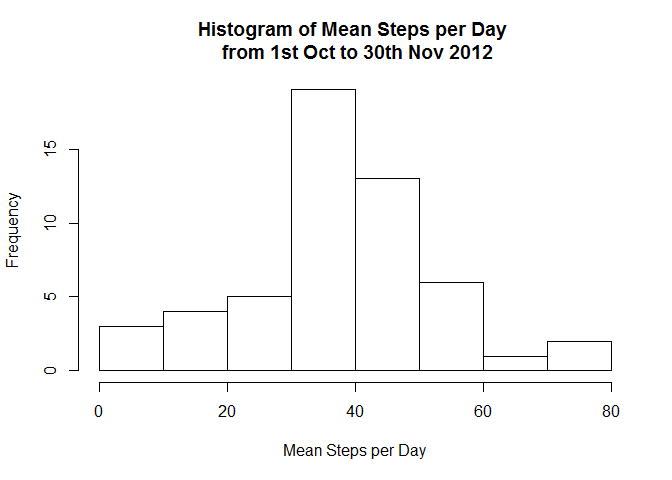
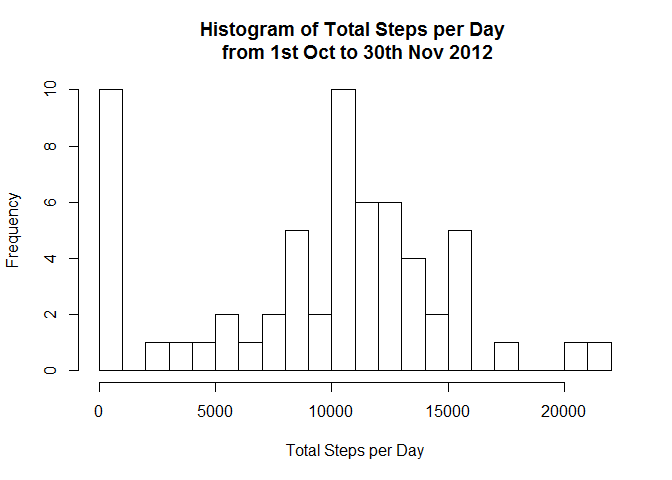
Modified code

diff --git a/PA1_template.html b/PA1_template.html
@@ -146,16 +146,16 @@ head(actdata)</code></pre>
 <h2>What is mean total number of steps taken per day?</h2>
 <p>We first calculate the average number of steps taken aggregated within each individual day.</p>
 <p>Here we show the histogram of the average number obtained.</p>
-<pre class="r"><code>meandata&lt;-aggregate(actdata$steps,list(actdata$date),mean,na.rm=TRUE)
-names(meandata)&lt;-c('Date','Mean_Steps_per_Day')
-hist(meandata$Mean_Steps_per_Day,xlab='Mean Steps per Day',main='Histogram of Mean Steps per Day \n from 1st Oct to 30th Nov 2012')</code></pre>
[1 lines of base64/hex data omitted]
+<pre class="r"><code>totaldata&lt;-aggregate(actdata$steps,list(actdata$date),sum,na.rm=TRUE)
+names(totaldata)&lt;-c('Date','Total_Steps_per_Day')
+hist(totaldata$Total_Steps_per_Day,breaks=20,xlab='Total Steps per Day',main='Histogram of Total Steps per Day \n from 1st Oct to 30th Nov 2012')</code></pre>
[1 lines of base64/hex data omitted]
 <p>The mean number of total steps per day can be calculated as follows:</p>
-<pre class="r"><code>mean(meandata$Mean_Steps_per_Day,na.rm=TRUE)</code></pre>
-<pre><code>## [1] 37.3826</code></pre>
+<pre class="r"><code>mean(totaldata$Total_Steps_per_Day,na.rm=TRUE)</code></pre>
+<pre><code>## [1] 9354.23</code></pre>
 <p>While the median number is as follows:</p>
-<pre class="r"><code>median(meandata$Mean_Steps_per_Day,na.rm=TRUE)</code></pre>
-<pre><code>## [1] 37.37847</code></pre>
+<pre class="r"><code>median(totaldata$Total_Steps_per_Day,na.rm=TRUE)</code></pre>
+<pre><code>## [1] 10395</code></pre>
 </div>
 <div id="what-is-the-average-daily-activity-pattern" class="section level2">
 <h2>What is the average daily activity pattern?</h2>
@@ -182,16 +182,17 @@ newdata&lt;-actdata
 for (i in intervallist) {
   newdata$steps&lt;-replace(newdata$steps,which((newdata$interval==i)&amp;(is.na(newdata$steps))),dailyavedata[dailyavedata$Interval==i,&quot;Mean_Steps_per_Interval&quot;])
 }</code></pre>
-<p>Now we show again the histogram of the average number obtained. INterstingly, there is little difference between this and the imputed version.</p>
-<pre class="r"><code>meandata2&lt;-aggregate(newdata$steps,list(newdata$date),mean,na.rm=TRUE)
-names(meandata2)&lt;-c('Date','Mean_Steps_per_Day')
-hist(meandata2$Mean_Steps_per_Day,xlab='Mean Steps per Day',main='Histogram of Mean Steps per Day \n from 1st Oct to 30th Nov 2012')</code></pre>
[1 lines of base64/hex data omitted]
-<pre class="r"><code>mean(meandata2$Mean_Steps_per_Day,na.rm=TRUE)</code></pre>
-<pre><code>## [1] 37.3826</code></pre>
+<p>Now we show again the histogram of the total number of steps obtained. It is now different from the original diagram.</p>
+<pre class="r"><code>totaldata2&lt;-aggregate(newdata$steps,list(newdata$date),sum,na.rm=TRUE)
+names(totaldata2)&lt;-c('Date','Total_Steps_per_Day')
+hist(totaldata2$Total_Steps_per_Day,breaks =20,xlab='Total Steps per Day',main='Histogram of total Steps per Day \n from 1st Oct to 30th Nov 2012')</code></pre>
[1 lines of base64/hex data omitted]
+<p>The mean number of total steps per day has also increased:</p>
+<pre class="r"><code>mean(totaldata2$Total_Steps_per_Day,na.rm=TRUE)</code></pre>
+<pre><code>## [1] 10766.19</code></pre>
 <p>While the median number has changed to be equal to the mean:</p>
-<pre class="r"><code>median(meandata2$Mean_Steps_per_Day,na.rm=TRUE)</code></pre>
-<pre><code>## [1] 37.3826</code></pre>
+<pre class="r"><code>median(totaldata2$Total_Steps_per_Day,na.rm=TRUE)</code></pre>
+<pre><code>## [1] 10766.19</code></pre>
 </div>
 <div id="are-there-differences-in-activity-patterns-between-weekdays-and-weekends" class="section level2">
 <h2>Are there differences in activity patterns between weekdays and weekends?</h2>

diff --git a/PA1_template.md b/PA1_template.md
@@ -38,9 +38,9 @@ Here we show the histogram of the average number obtained.
 
 
 ```r
-meandata<-aggregate(actdata$steps,list(actdata$date),mean,na.rm=TRUE)
-names(meandata)<-c('Date','Mean_Steps_per_Day')
-hist(meandata$Mean_Steps_per_Day,xlab='Mean Steps per Day',main='Histogram of Mean Steps per Day \n from 1st Oct to 30th Nov 2012')
+totaldata<-aggregate(actdata$steps,list(actdata$date),sum,na.rm=TRUE)
+names(totaldata)<-c('Date','Total_Steps_per_Day')
+hist(totaldata$Total_Steps_per_Day,breaks=20,xlab='Total Steps per Day',main='Histogram of Total Steps per Day \n from 1st Oct to 30th Nov 2012')
 ```
 
 ![](PA1_template_files/figure-html/unnamed-chunk-2-1.png)<!-- -->
@@ -48,20 +48,20 @@ hist(meandata$Mean_Steps_per_Day,xlab='Mean Steps per Day',main='Histogram of Me
 The mean number of total steps per day can be calculated as follows: 
 
 ```r
-mean(meandata$Mean_Steps_per_Day,na.rm=TRUE)
+mean(totaldata$Total_Steps_per_Day,na.rm=TRUE)
 ```
 
 ```
-## [1] 37.3826
+## [1] 9354.23
 ```
 While the median number is as follows:
 
 ```r
-median(meandata$Mean_Steps_per_Day,na.rm=TRUE)
+median(totaldata$Total_Steps_per_Day,na.rm=TRUE)
 ```
 
 ```
-## [1] 37.37847
+## [1] 10395
 ```
 ## What is the average daily activity pattern?
 Now we take the number of steps for each given interval and average them across all the 61 recorded days from the Oct to Nov period.
@@ -117,34 +117,35 @@ for (i in intervallist) {
   newdata$steps<-replace(newdata$steps,which((newdata$interval==i)&(is.na(newdata$steps))),dailyavedata[dailyavedata$Interval==i,"Mean_Steps_per_Interval"])
 }
 ```
-Now we show again the histogram of the average number obtained.
-INterstingly, there is little difference between this and the imputed version.
+
+Now we show again the histogram of the total number of steps obtained. It is now different from the original diagram.
 
 
 ```r
-meandata2<-aggregate(newdata$steps,list(newdata$date),mean,na.rm=TRUE)
-names(meandata2)<-c('Date','Mean_Steps_per_Day')
-hist(meandata2$Mean_Steps_per_Day,xlab='Mean Steps per Day',main='Histogram of Mean Steps per Day \n from 1st Oct to 30th Nov 2012')
+totaldata2<-aggregate(newdata$steps,list(newdata$date),sum,na.rm=TRUE)
+names(totaldata2)<-c('Date','Total_Steps_per_Day')
+hist(totaldata2$Total_Steps_per_Day,breaks =20,xlab='Total Steps per Day',main='Histogram of total Steps per Day \n from 1st Oct to 30th Nov 2012')
 ```
 
 ![](PA1_template_files/figure-html/unnamed-chunk-9-1.png)<!-- -->
-The mean number of total steps per day also remains the same as follows: 
+
+The mean number of total steps per day has also increased: 
 
 ```r
-mean(meandata2$Mean_Steps_per_Day,na.rm=TRUE)
+mean(totaldata2$Total_Steps_per_Day,na.rm=TRUE)
 ```
 
 ```
-## [1] 37.3826
+## [1] 10766.19
 ```
 While the median number has changed to be equal to the mean:
 
 ```r
-median(meandata2$Mean_Steps_per_Day,na.rm=TRUE)
+median(totaldata2$Total_Steps_per_Day,na.rm=TRUE)
 ```
 
 ```
-## [1] 37.3826
+## [1] 10766.19
 ```
 
 ## Are there differences in activity patterns between weekdays and weekends?
